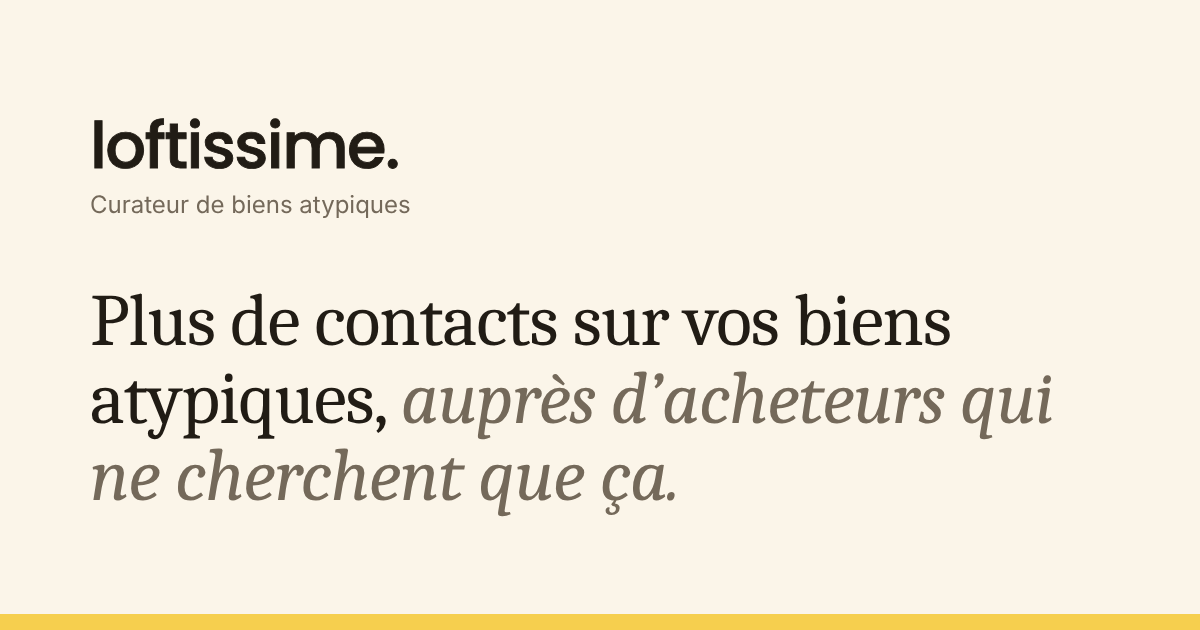
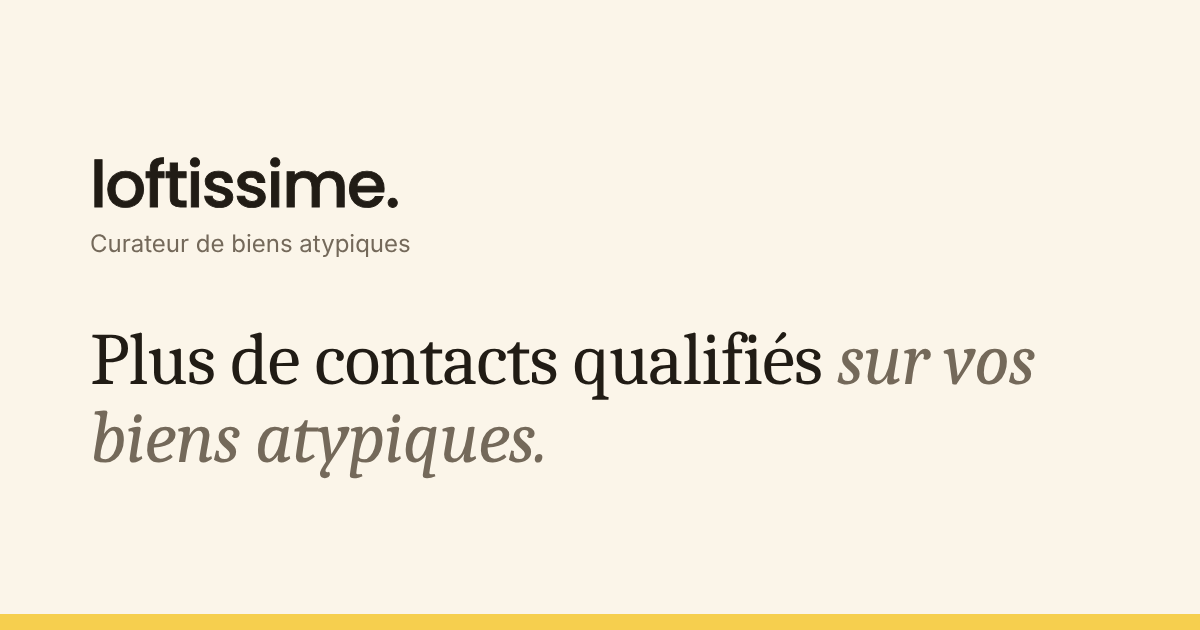
Espace pro : titre « Plus de contacts qualifiés sur vos biens atypiques. »
Claude-Session: https://claude.ai/code/session_015aKJiDLUy7h6cRtFn1LWuo

Changed region(s): [[0.0617, 0.4524, 0.8942, 0.8143], [0.0617, 0.181, 0.3392, 0.4222]]

diff --git a/frontend/app/pro/page.tsx b/frontend/app/pro/page.tsx
@@ -8,7 +8,7 @@ import logiciels from './logiciels.png';
 export const metadata = {
   title: 'Agences : présentez vos biens atypiques · Loftissime',
   description:
-    'Plus de contacts sur vos biens atypiques, auprès d’acheteurs qui ne cherchent que ça. Contacts directs, mise à jour automatique, gratuit pendant le lancement.',
+    'Plus de contacts qualifiés sur vos biens atypiques. Contacts directs, mise à jour automatique, gratuit pendant le lancement.',
   alternates: { canonical: '/pro' },
 };
 
@@ -89,10 +89,10 @@ export default function ProPage() {
         <div className="max-w-4xl">
           <Crumbs items={[{ label: 'Espace pro' }]} />
           <h1 className="mt-5 text-4xl md:text-6xl font-serif tracking-tight text-stone-900 leading-[1.05]">
-            Plus de contacts sur vos biens atypiques, <span className="text-stone-500">auprès d&apos;acheteurs qui ne cherchent que ça.</span>
+            Plus de contacts qualifiés <span className="italic text-stone-500">sur vos biens atypiques.</span>
           </h1>
           <p className="mt-5 max-w-2xl text-base md:text-lg font-light leading-relaxed text-stone-600">
-            Nous vous mettons en relation directe avec des acheteurs qualifiés.
+            Nous vous mettons en relation directe avec des acheteurs qui ne cherchent que de l’atypique.
           </p>
           <p className="mt-3">
             <a href="#rejoindre" className="text-base font-medium text-stone-900 underline underline-offset-4 decoration-stone-300 hover:decoration-stone-900 transition">
